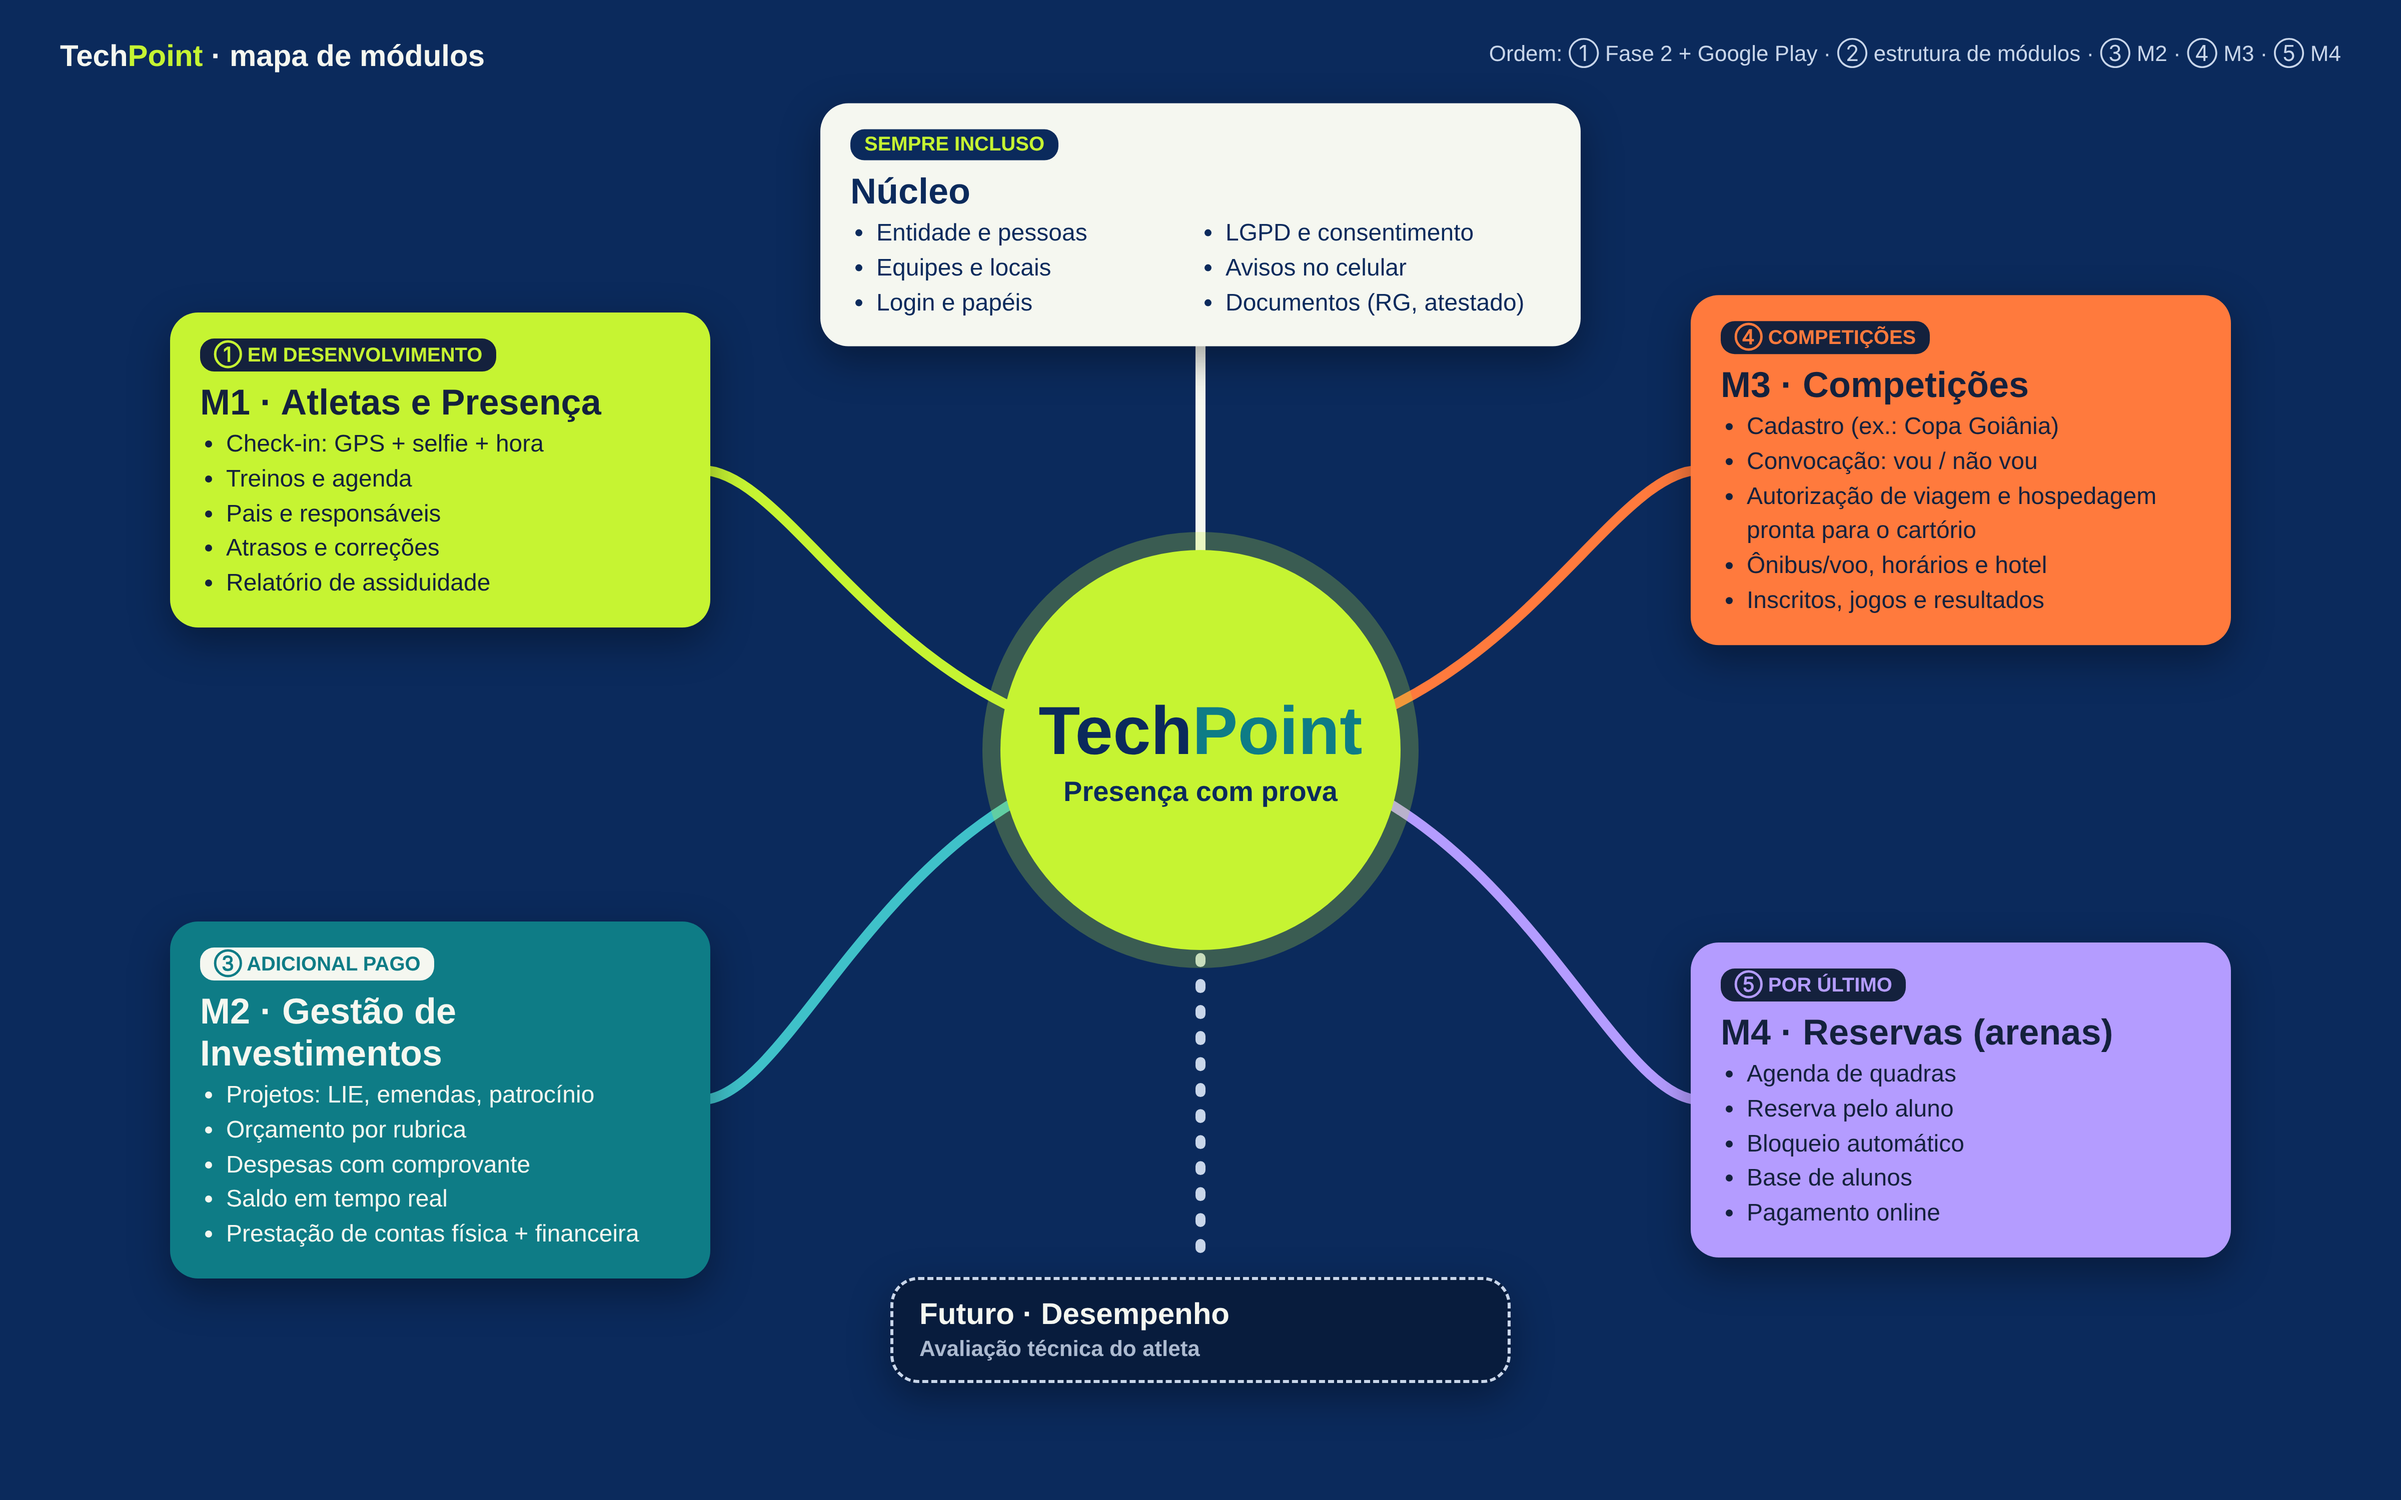
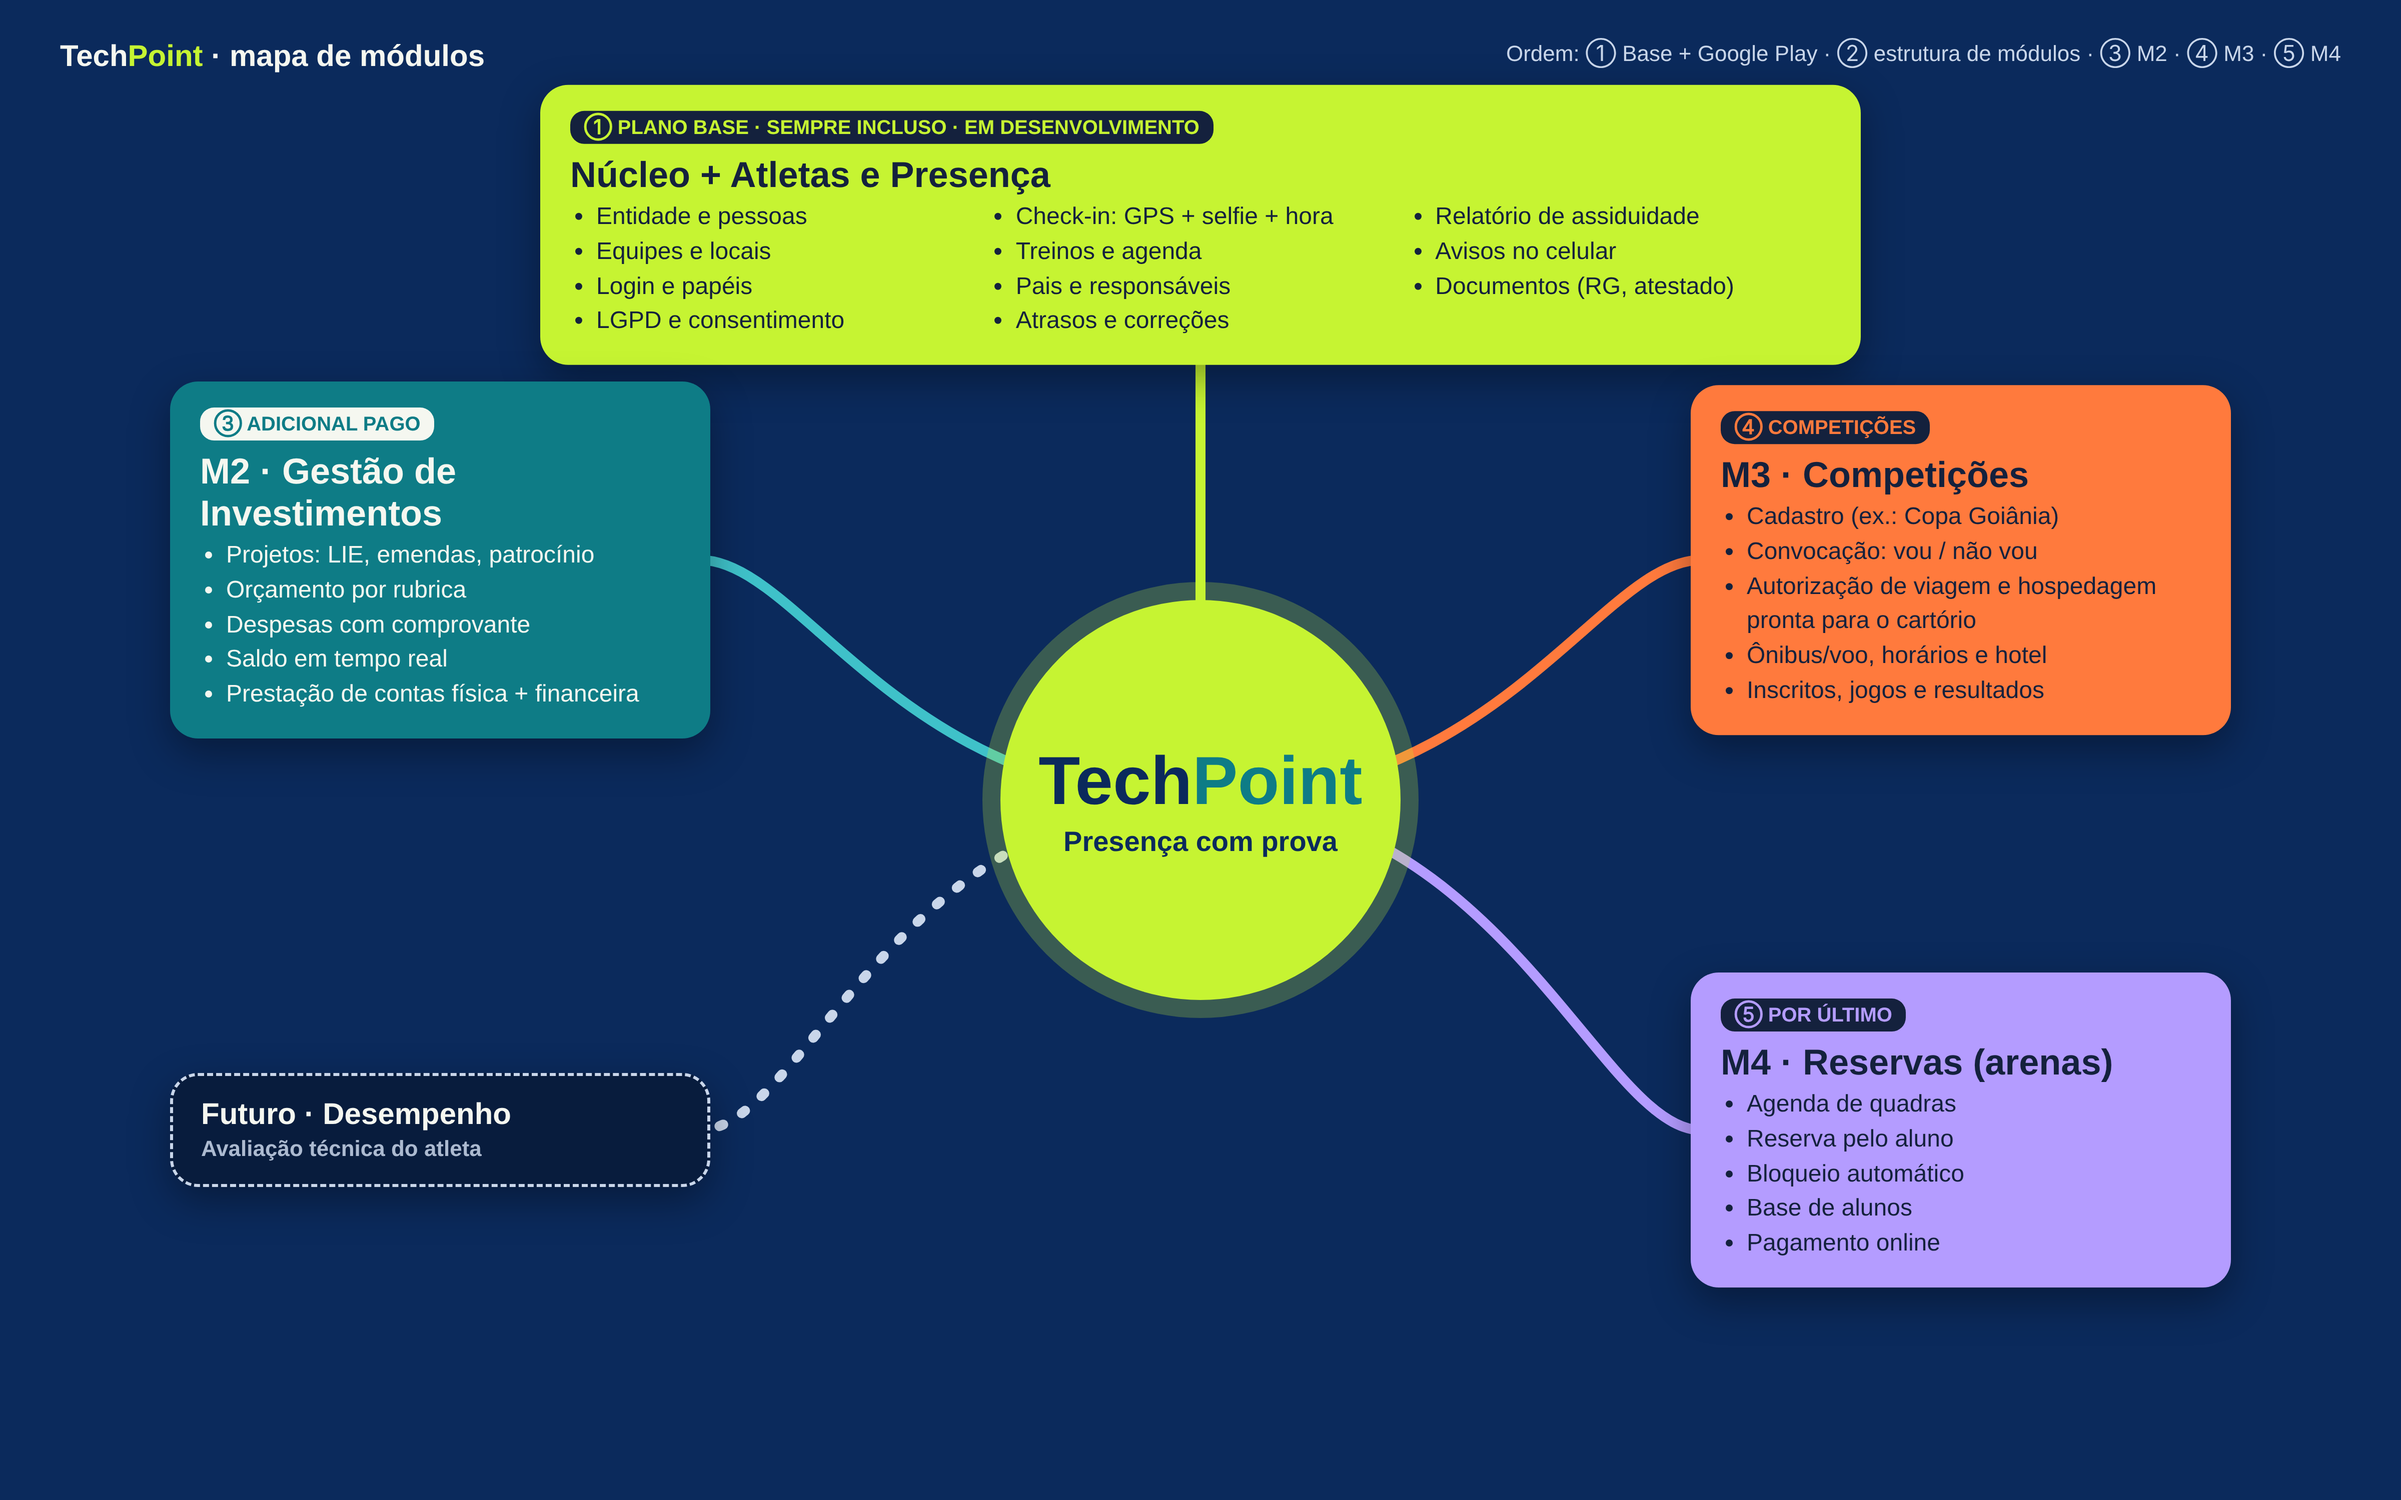
docs: Núcleo + Atletas e Presença unificados no Plano Base (D71)
Claude-Session: https://claude.ai/code/session_01AGzzY6S6kTuXyu1BoZKz9S

diff --git a/docs/apresentacao/mapa-modulos.html b/docs/apresentacao/mapa-modulos.html
@@ -13,37 +13,33 @@ svg{position:absolute;left:0;top:0}
 .leg{position:absolute;right:60px;top:40px;color:#C9D6EA;font-size:22px;text-align:right}
 </style></head><body>
 <div class="t">Tech<span>Point</span> · mapa de módulos</div>
-<div class="leg">Ordem: ① Fase 2 + Google Play · ② estrutura de módulos · ③ M2 · ④ M3 · ⑤ M4</div>
+<div class="leg">Ordem: ① Base + Google Play · ② estrutura de módulos · ③ M2 · ④ M3 · ⑤ M4</div>
 <svg width="2400" height="1500"><g fill="none" stroke-width="10" stroke-linecap="round">
-<path d="M1200 750 C1200 550 1200 450 1200 330" stroke="#F5F7F0"/>
-<path d="M1200 750 C900 750 800 470 700 470" stroke="#C6F432"/>
-<path d="M1200 750 C900 750 800 1100 700 1100" stroke="#3FC1C9"/>
-<path d="M1200 750 C1500 750 1600 470 1700 470" stroke="#FF7A3D"/>
-<path d="M1200 750 C1500 750 1600 1100 1700 1100" stroke="#B49CFF"/>
-<path d="M1200 750 C1200 1000 1200 1150 1200 1270" stroke="#C9D6EA" stroke-dasharray="4 22"/>
+<path d="M1200 800 C1200 600 1200 450 1200 360" stroke="#C6F432"/>
+<path d="M1200 800 C900 800 800 560 700 560" stroke="#3FC1C9"/>
+<path d="M1200 800 C900 800 800 1130 700 1130" stroke="#C9D6EA" stroke-dasharray="4 22"/>
+<path d="M1200 800 C1500 800 1600 560 1700 560" stroke="#FF7A3D"/>
+<path d="M1200 800 C1500 800 1600 1130 1700 1130" stroke="#B49CFF"/>
 </g></svg>
-<div class="c"><h1>Tech<span>Point</span></h1><p>Presença com prova</p></div>
+<div class="c" style="top:800px"><h1>Tech<span>Point</span></h1><p>Presença com prova</p></div>
 
-<div class="n" style="left:1200px;top:225px;background:#F5F7F0;color:#0B2A5C;width:760px">
-<span class="b" style="background:#0B2A5C;color:#C6F432">SEMPRE INCLUSO</span><h2>Núcleo</h2>
-<ul style="columns:2"><li>Entidade e pessoas</li><li>Equipes e locais</li><li>Login e papéis</li><li>LGPD e consentimento</li><li>Avisos no celular</li><li>Documentos (RG, atestado)</li></ul></div>
+<div class="n" style="left:1200px;top:225px;background:#C6F432;color:#14213D;width:1320px">
+<span class="b" style="background:#14213D;color:#C6F432">① PLANO BASE · SEMPRE INCLUSO · EM DESENVOLVIMENTO</span><h2>Núcleo + Atletas e Presença</h2>
+<ul style="columns:3"><li>Entidade e pessoas</li><li>Equipes e locais</li><li>Login e papéis</li><li>LGPD e consentimento</li><li>Check-in: GPS + selfie + hora</li><li>Treinos e agenda</li><li>Pais e responsáveis</li><li>Atrasos e correções</li><li>Relatório de assiduidade</li><li>Avisos no celular</li><li>Documentos (RG, atestado)</li></ul></div>
 
-<div class="n" style="left:440px;top:470px;background:#C6F432;color:#14213D">
-<span class="b" style="background:#14213D;color:#C6F432">① EM DESENVOLVIMENTO</span><h2>M1 · Atletas e Presença</h2>
-<ul><li>Check-in: GPS + selfie + hora</li><li>Treinos e agenda</li><li>Pais e responsáveis</li><li>Atrasos e correções</li><li>Relatório de assiduidade</li></ul></div>
+<div class="n" style="left:440px;top:1130px;background:#081C3D;color:#C9D6EA;border:3px dashed #C9D6EA;padding:22px 28px">
+<h2 style="color:#F5F7F0;font-size:30px">Futuro · Desempenho</h2><div class="s" style="margin:0">Avaliação técnica do atleta</div></div>
 
-<div class="n" style="left:440px;top:1100px;background:#0E7C86;color:#F5F7F0">
+<div class="n" style="left:440px;top:560px;background:#0E7C86;color:#F5F7F0">
 <span class="b" style="background:#F5F7F0;color:#0E7C86">③ ADICIONAL PAGO</span><h2>M2 · Gestão de Investimentos</h2>
 <ul><li>Projetos: LIE, emendas, patrocínio</li><li>Orçamento por rubrica</li><li>Despesas com comprovante</li><li>Saldo em tempo real</li><li>Prestação de contas física + financeira</li></ul></div>
 
-<div class="n" style="left:1960px;top:470px;background:#FF7A3D;color:#14213D">
+<div class="n" style="left:1960px;top:560px;background:#FF7A3D;color:#14213D">
 <span class="b" style="background:#14213D;color:#FF7A3D">④ COMPETIÇÕES</span><h2>M3 · Competições</h2>
 <ul><li>Cadastro (ex.: Copa Goiânia)</li><li>Convocação: vou / não vou</li><li>Autorização de viagem e hospedagem pronta para o cartório</li><li>Ônibus/voo, horários e hotel</li><li>Inscritos, jogos e resultados</li></ul></div>
 
-<div class="n" style="left:1960px;top:1100px;background:#B49CFF;color:#14213D">
+<div class="n" style="left:1960px;top:1130px;background:#B49CFF;color:#14213D">
 <span class="b" style="background:#14213D;color:#B49CFF">⑤ POR ÚLTIMO</span><h2>M4 · Reservas (arenas)</h2>
 <ul><li>Agenda de quadras</li><li>Reserva pelo aluno</li><li>Bloqueio automático</li><li>Base de alunos</li><li>Pagamento online</li></ul></div>
 
-<div class="n" style="left:1200px;top:1330px;background:#081C3D;color:#C9D6EA;border:3px dashed #C9D6EA;width:620px;padding:18px 26px">
-<h2 style="color:#F5F7F0;font-size:30px">Futuro · Desempenho</h2><div class="s" style="margin:0">Avaliação técnica do atleta</div></div>
 </body></html>

diff --git a/docs/modulos.md b/docs/modulos.md
@@ -7,8 +7,7 @@ Tudo continua sendo um único app, um único site e um único banco: o cliente v
 ## Mapa
 | Módulo | O que tem | Quem compra | Situação |
 |---|---|---|---|
-| **Núcleo** (sempre incluso) | Entidade, pessoas e papéis, equipes, locais, login, LGPD e consentimento, avisos (push), arquivos e documentos | Todos | Pronto, exceto o envio de documentos |
-| **M1 Atletas e Presença** | Check-in com prova, treinos, responsáveis, correções, relatório de assiduidade | Clubes, escolas, projetos | Em desenvolvimento (Fases 1 e 2) |
+| **Plano Base: Núcleo + Atletas e Presença** (sempre incluso, vendido junto) | Entidade, pessoas e papéis, equipes, locais, login, LGPD e consentimento, avisos (push), documentos; check-in com prova, treinos, responsáveis, correções, relatório de assiduidade | Clubes, escolas, projetos | Em desenvolvimento (Fases 1 e 2) |
 | **M2 Gestão de Investimentos** | Gestão do dinheiro captado pelos projetos (LIE, emendas, editais, patrocínio): orçamento por rubrica, despesas com comprovantes, saldo, metas, patrocinadores e prestação de contas física e financeira | Quem capta recurso (LIE, emendas, patrocínio) | Base já feita (projetos); a parte financeira está prevista |
 | **M3 Competições** | A entidade cadastra a competição (própria ou de fora, ex.: Copa Goiânia), convoca os atletas pela plataforma, o atleta/responsável confirma, gera a lista de inscritos com documentos, e registra jogos e resultados | Clubes, escolas, projetos | Escopo definido (14/11) |
 | **M4 Reservas (arenas)** | Agenda de quadras, disponibilidade, reserva pelo aluno, bloqueio automático, base de alunos, pagamento | Arenas, beach tennis, escolinhas | A validar no mercado |
@@ -19,7 +18,7 @@ Tudo continua sendo um único app, um único site e um único banco: o cliente v
 - Uma função `org_has_module()` protege as regras de acesso (RLS) e as funções do banco. O módulo desligado fica fechado no servidor, não só escondido na tela.
 - No app, os menus e as telas aparecem conforme os módulos ativos.
 - No código, cada módulo tem sua pasta (`src/modules/<nome>`) e suas migrações próprias.
-- Cobrança: um preço base (Núcleo + M1) e os demais módulos como adicionais. Os valores entram na revisão de preço já combinada.
+- Cobrança: o Plano Base (Núcleo + Atletas e Presença, sempre juntos) e os demais módulos como adicionais. Os valores entram na revisão de preço já combinada.
 
 ## Ponto crítico: M4 Reservas
 - **É outro comprador e outra dor.** O dono da arena quer encher a agenda e receber, não prestar contas. O pitch e o marketing serão outros (Linha B).
@@ -30,7 +29,7 @@ Tudo continua sendo um único app, um único site e um único banco: o cliente v
 
 ## Ordem sugerida
 1. Terminar a Fase 2 (LGPD) e publicar na Google Play, como já planejado.
-2. Fazer a "Fase 2.5 Módulos": criar `org_modules`, ligar M1 e M2 em todas as entidades atuais e ajustar os menus. É pequena e evita retrabalho.
+2. Fazer a "Fase 2.5 Módulos": criar `org_modules`, ligar o Plano Base e o M2 em todas as entidades atuais e ajustar os menus. É pequena e evita retrabalho.
 3. M2 completo (parte financeira), vendido como adicional.
 4. M3 Competições.
 5. M4 Reservas: **por último** (decisão do dono do produto, 14/11), depois da validação com as arenas.

diff --git a/DECISOES.md b/DECISOES.md
@@ -81,3 +81,4 @@ Registro das decisões tomadas, com data e motivo. Decisões novas entram no fim
 | D68 | **Domínio próprio: techpoint.app.br** (registro.br, pedido 32643806, em 14/11/2026). Ligação ao site e troca dos links do app ficam para as vésperas do lançamento. "Somos TechPoint" fica como slogan/hashtag, não como domínio | Decisão do dono do produto: brasileiro, sóbrio para relatório oficial, ~R$ 40/ano |
 | D69 | **Módulos:** núcleo + M1 Atletas e Presença + M2 Gestão de Investimentos (cobrado à parte) + M3 Competições (a entidade escala e convoca atletas para competições próprias ou de fora, ex.: Copa Goiânia) + **M4 Reservas por último** | Decisão do dono do produto (ver docs/modulos.md) |
 | D70 | **M3 Competições:** RG e CPF do atleta (e do responsável, que assina a autorização) são pedidos **uma única vez**, na primeira convocação, e ficam guardados para as próximas competições (dados protegidos por RLS, visíveis só à equipe da entidade e ao próprio titular/responsável). O módulo será construído completo e fica **desligado** até a validação jurídica dos modelos (ECA arts. 82–83, CNJ 295/2019) | Decisão do dono do produto (14/11) |
+| D71 | **Núcleo e Atletas e Presença viram um só: o Plano Base**, sempre oferecido junto. Os módulos adicionais são M2 Investimentos, M3 Competições e M4 Reservas | Decisão do dono do produto (14/11) |
